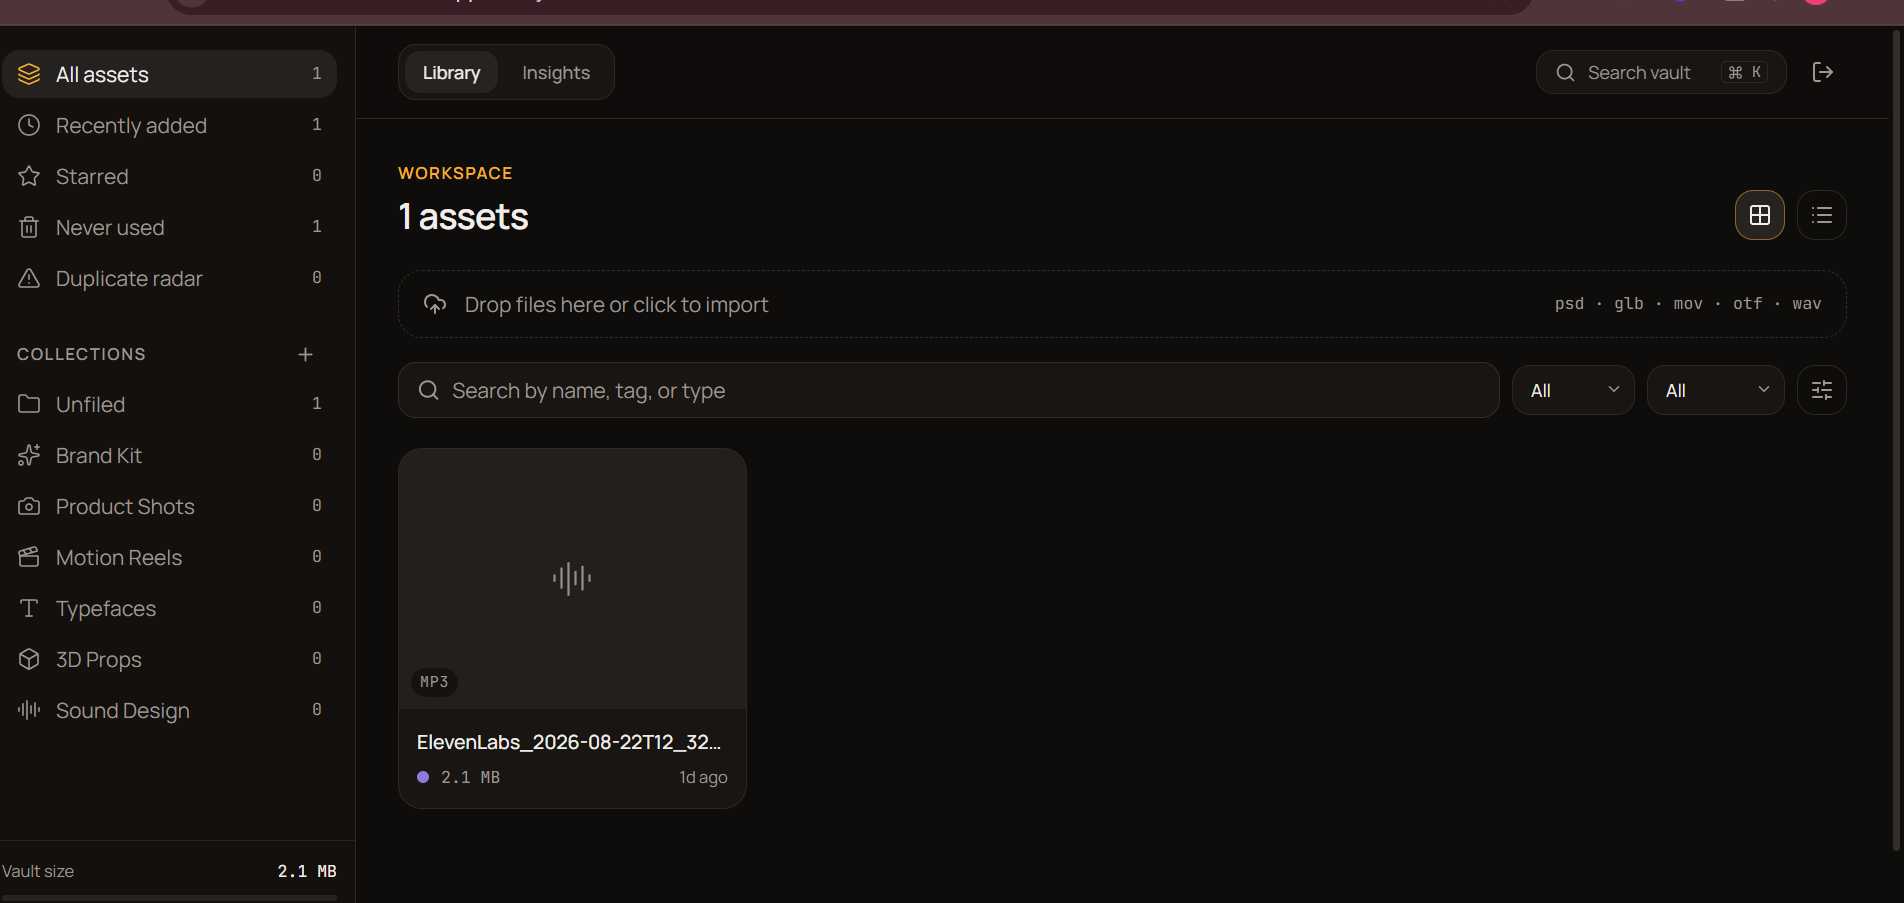
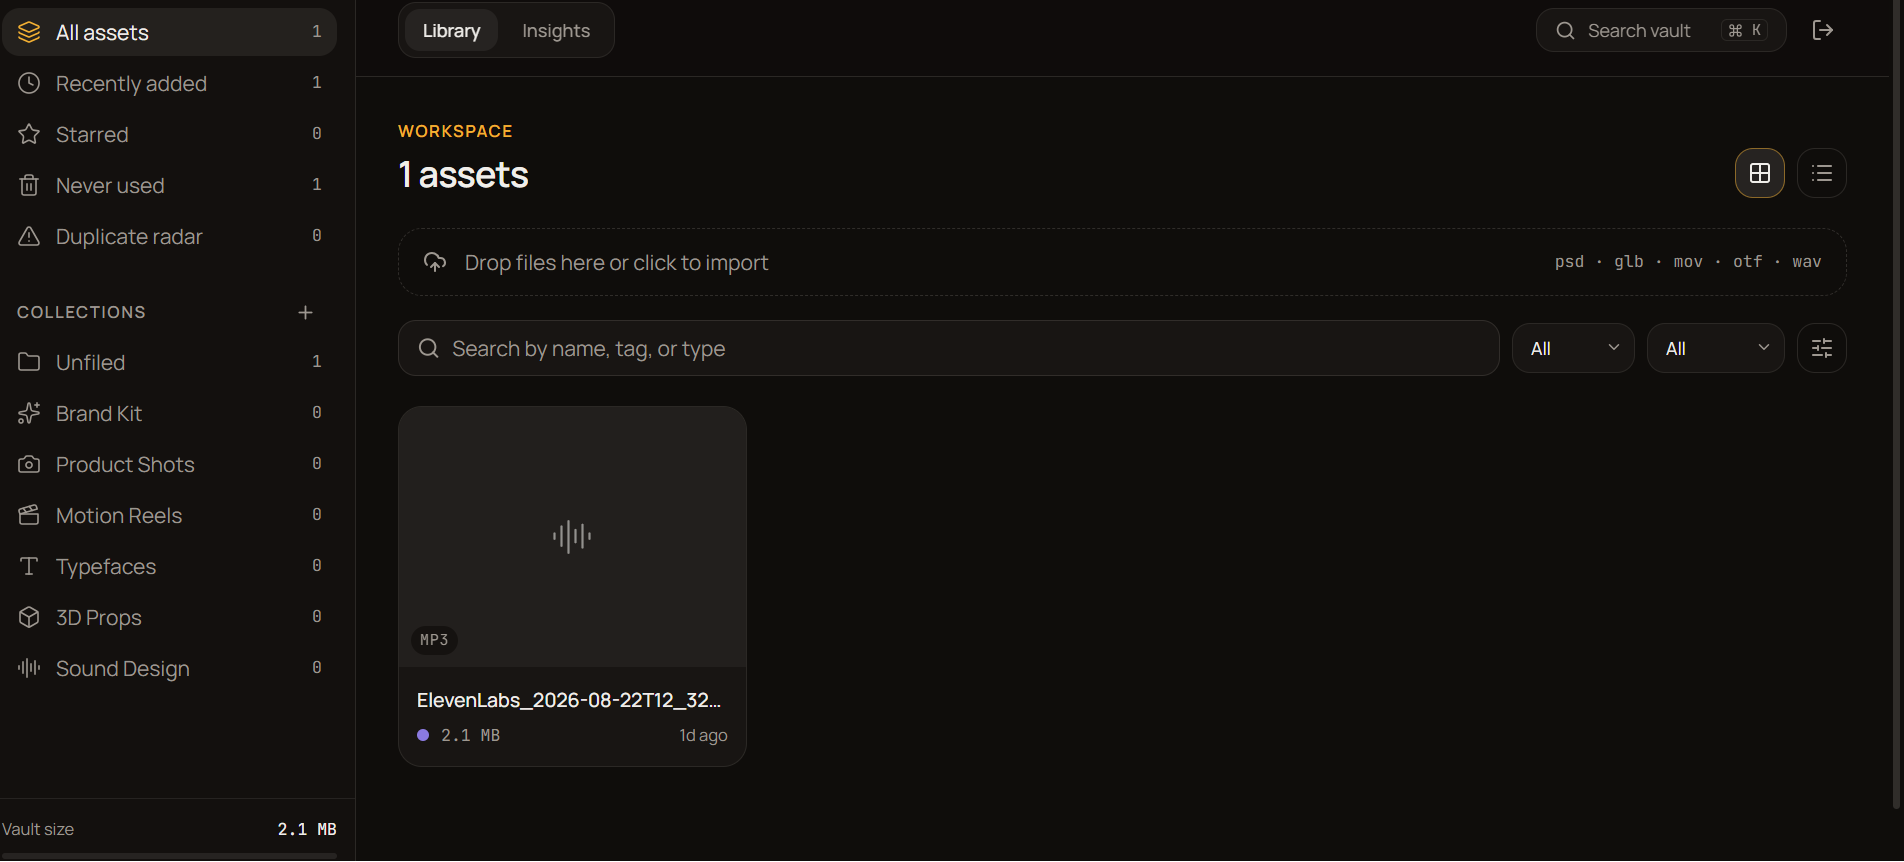
Added perfectly fit image in landing

diff --git a/src/routes/index.tsx b/src/routes/index.tsx
@@ -1936,7 +1936,7 @@ function AppInterfaceShowcase() {
         </div>
 
         {/* Real App Screenshot Preview Container with Hotspot Overlays */}
-        <div className="relative aspect-[16/9] w-full overflow-hidden bg-[#16140F]">
+        <div className="relative aspect-[20/9] w-full overflow-hidden bg-[#16140F]">
           <img
             src="/library-app-screenshot.png"
             alt="Vaultgrid Library Workspace Screenshot"
